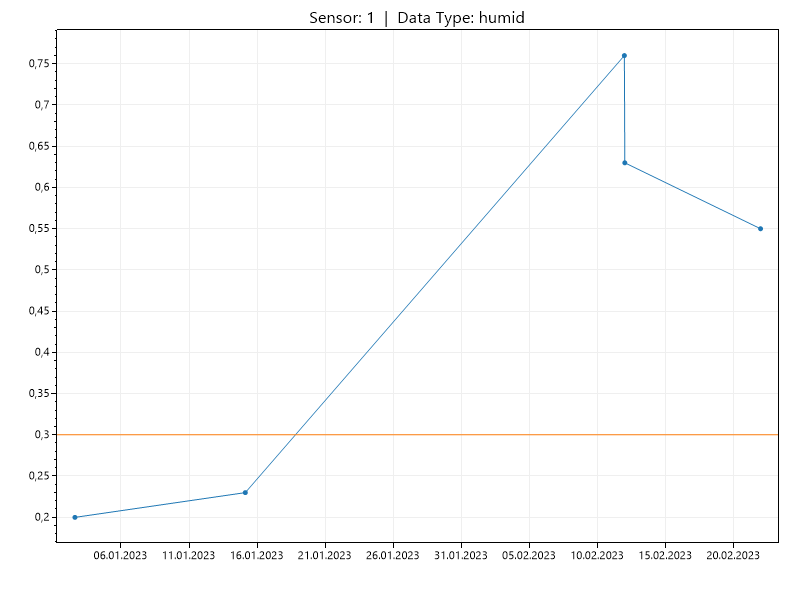
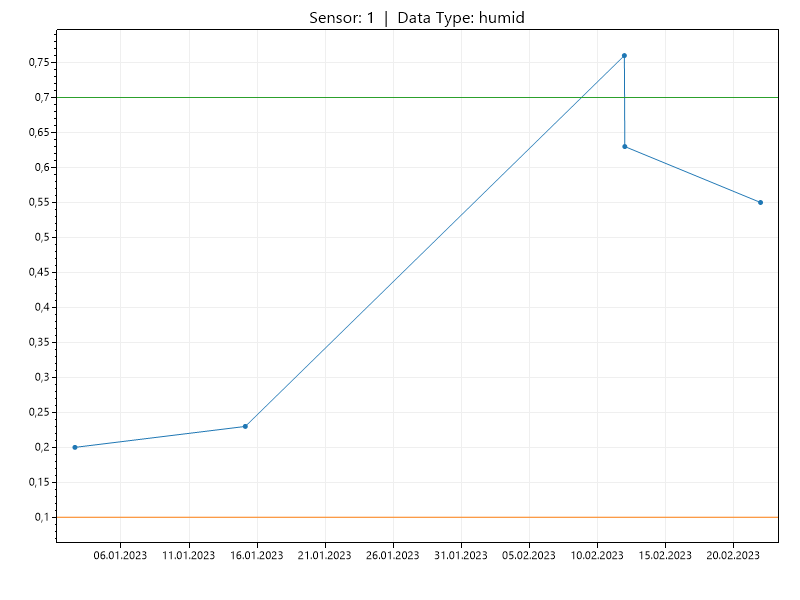
Changed from single float for data limit to float[2], for upper and lower bound

diff --git a/CropChain/Pages/DataPage.cshtml.cs b/CropChain/Pages/DataPage.cshtml.cs
@@ -10,11 +10,9 @@ namespace CropChain.Pages
     public class DataPageModel : PageModel
     {
 
+        private readonly CropChain.Data.CropChainContext _context;
         private List<DataCollection> dataCollections;
         private int nPlots;
-
-
-        private readonly CropChain.Data.CropChainContext _context;
 
         public DataPageModel(CropChain.Data.CropChainContext context)
         {
@@ -53,7 +51,8 @@ namespace CropChain.Pages
             double[] x = dateTimes.Select(x => x.ToOADate()).ToArray();
 
             dataPlot.AddScatter(x, y);
-            dataPlot.AddHorizontalLine((double)dataCollection.getLimit());
+            dataPlot.AddHorizontalLine((double)dataCollection.getLimit()[0]);
+            dataPlot.AddHorizontalLine((double)dataCollection.getLimit()[1]);
             dataPlot.XAxis.DateTimeFormat(true);
             dataPlot.XAxis2.Label("Sensor: " + dataCollection.getSensor_Id().ToString() + "  |  Data Type: " + dataCollection.getData_Type());
             dataPlot.SaveFig("wwwroot/resources/temp" + graph_id.ToString() + ".png");

diff --git a/CropChain/Models/DataCollection.cs b/CropChain/Models/DataCollection.cs
@@ -4,7 +4,7 @@
     {
 
         private List<DataPoint> measurements;
-        private float alertLimit;
+        private float[] alertLimit = new float[2];
         private List<IObserver<DataPoint>> observers;
         
         private string data_Type;
@@ -14,7 +14,8 @@
         public DataCollection(List<DataPoint> measurements, string data_Type, int sensor_Id)
         {
             this.measurements = measurements;
-            this.alertLimit = 0.3f;
+            this.alertLimit[0] = 0.1f;
+            this.alertLimit[1] = 0.7f;
             this.observers = new List<IObserver<DataPoint>>();
             this.data_Type = data_Type;
             this.sensor_Id = sensor_Id;
@@ -65,7 +66,7 @@
             return measurements;
         }
 
-        public float getLimit()
+        public float[] getLimit()
         {
             return alertLimit;
         }
